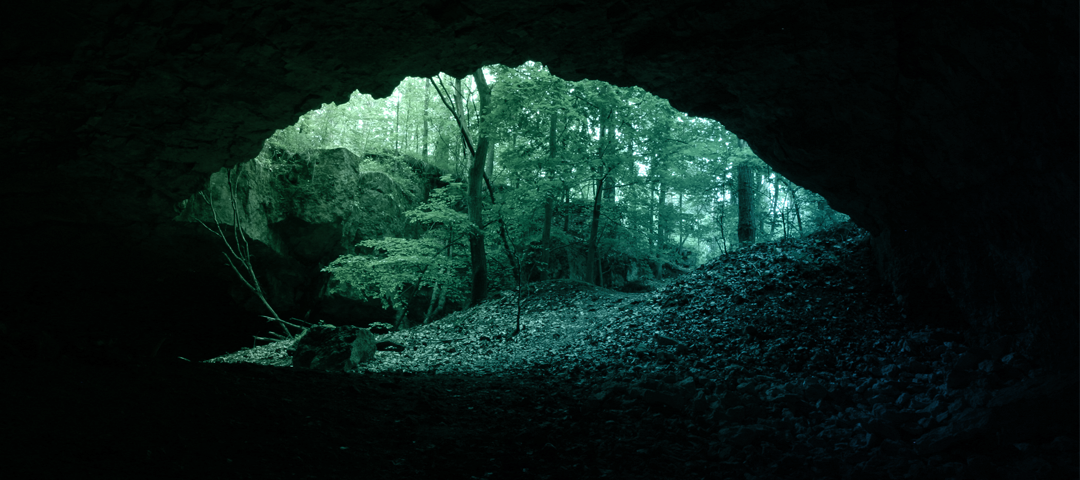
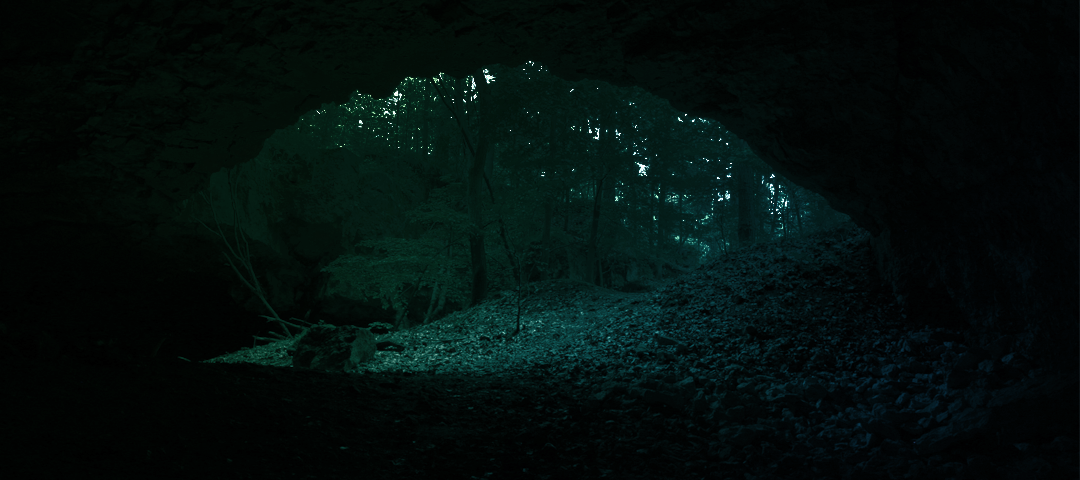
Darken header

Changed region(s): [[0.1528, 0.125, 0.7944, 0.7812], [0.1833, 0.6562, 0.3056, 0.7812]]

diff --git a/css/cayman.css b/css/cayman.css
@@ -54,7 +54,7 @@ a {
   text-align: center;
   background-color: #159957;
   background-size: cover;
-  background-image: url('..\images\header.png'); }
+  background-image: url('..\\images\\header.png'); }
   @media screen and (min-width: 64em) {
     .page-header {
       padding: 5rem 6rem; } }
